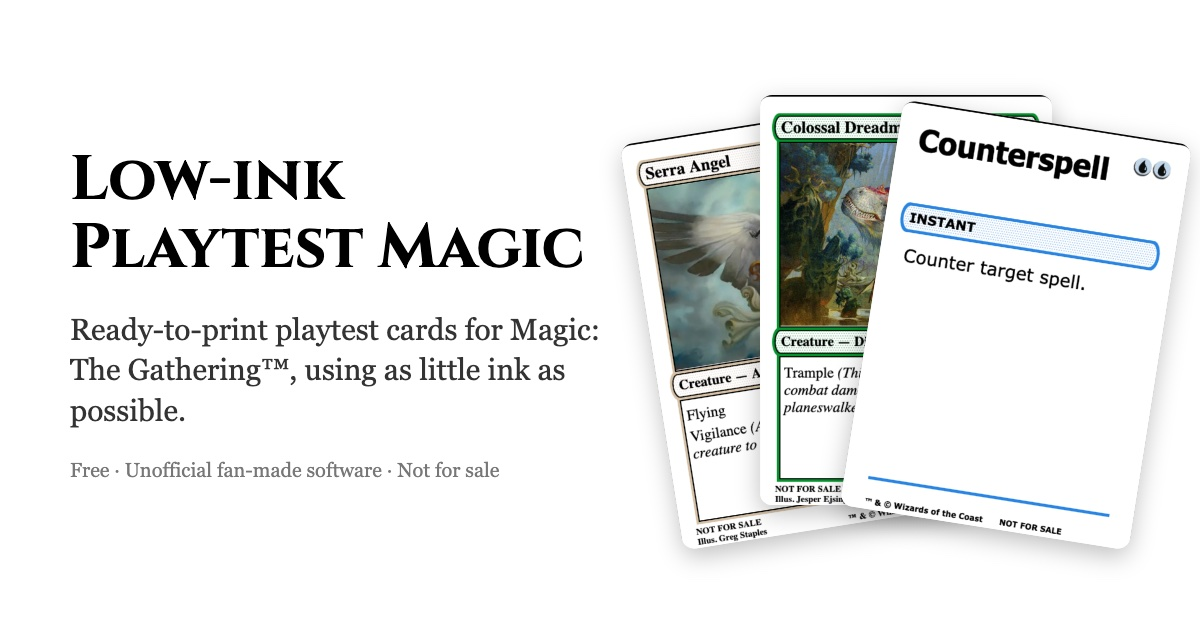
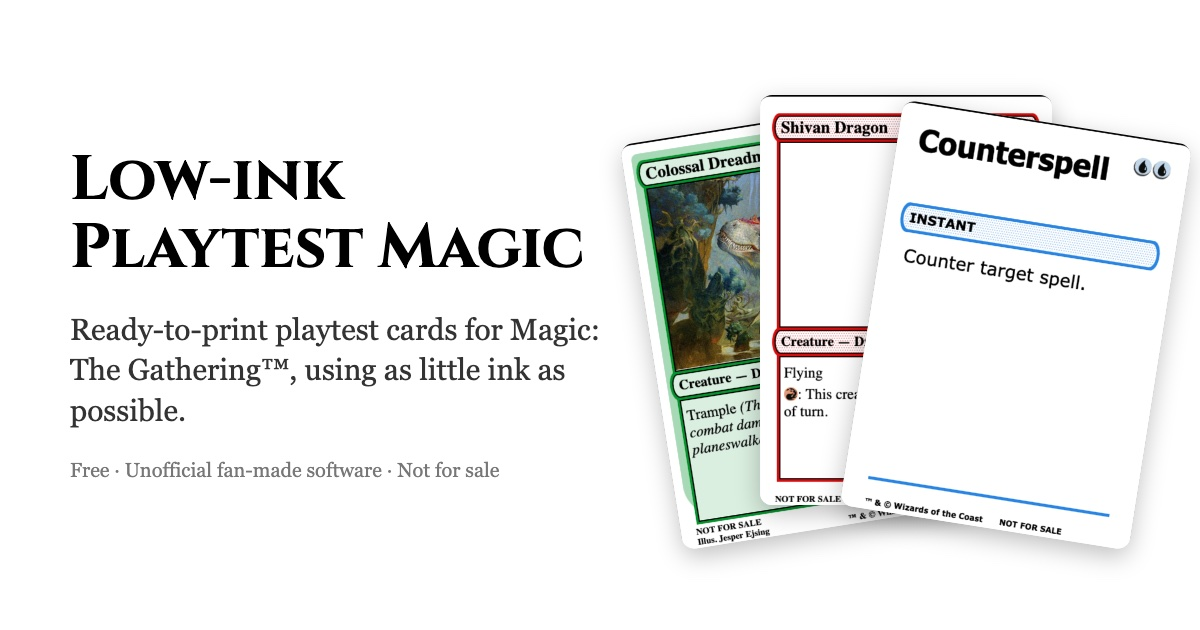
Show the ink levels and styles in the link preview image
The preview image's cards are now, left to right, Colossal Dreadmaw
in the realistic style with high ink and its art, Shivan Dragon with
medium ink and no art, and Counterspell in the minimalist style with
medium ink, so it shows what the settings change.

Claude-Session: https://claude.ai/code/session_01GRT1Wo5xMjC8dBZSNYSSbv

Changed region(s): [[0.5242, 0.181, 0.7708, 0.8746], [0.8325, 0.1508, 0.8633, 0.2111]]

diff --git a/index.html b/index.html
@@ -48,7 +48,7 @@
     <meta property="og:image:height" content="630" />
     <meta
       property="og:image:alt"
-      content="Low-ink Playtest Magic: three playtest cards, Serra Angel, Colossal Dreadmaw and Counterspell, fanned out next to the site's name"
+      content="Low-ink Playtest Magic: three playtest cards fanned out next to the site's name, Colossal Dreadmaw with high ink and its art, Shivan Dragon with medium ink and no art, and Counterspell in the minimalist style"
     />
     <meta name="twitter:card" content="summary_large_image" />
   </head>
